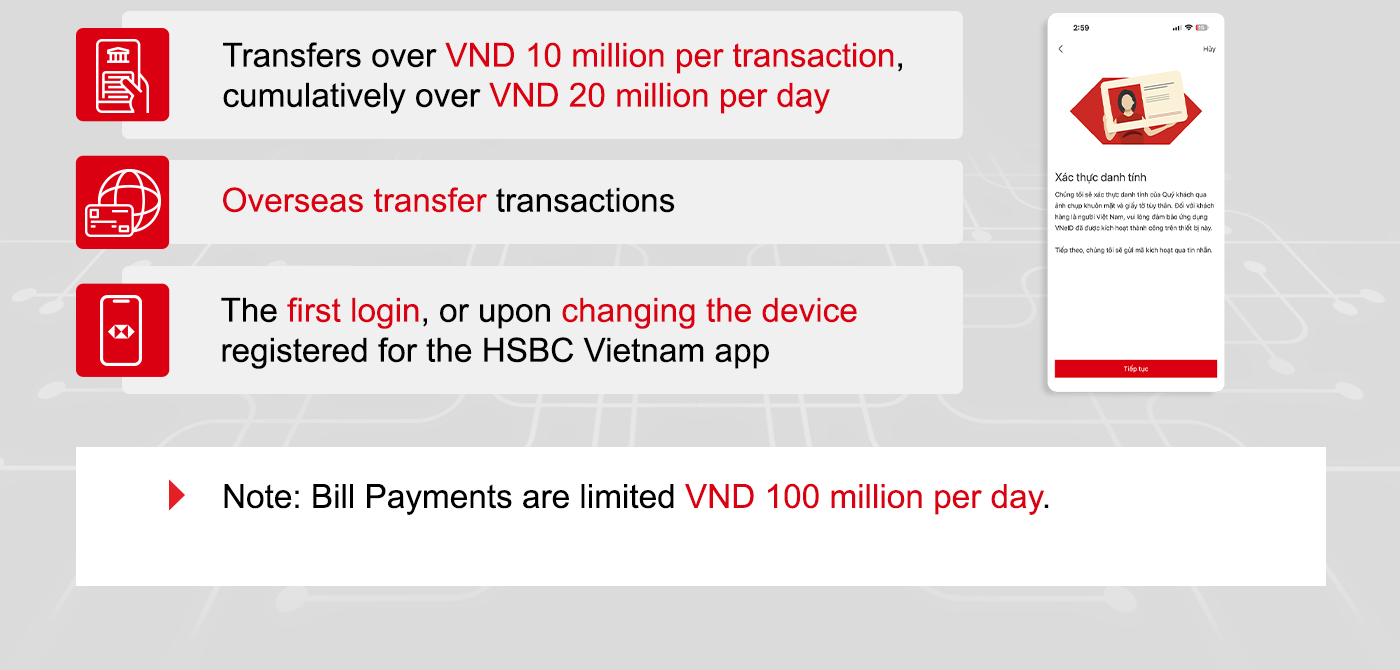
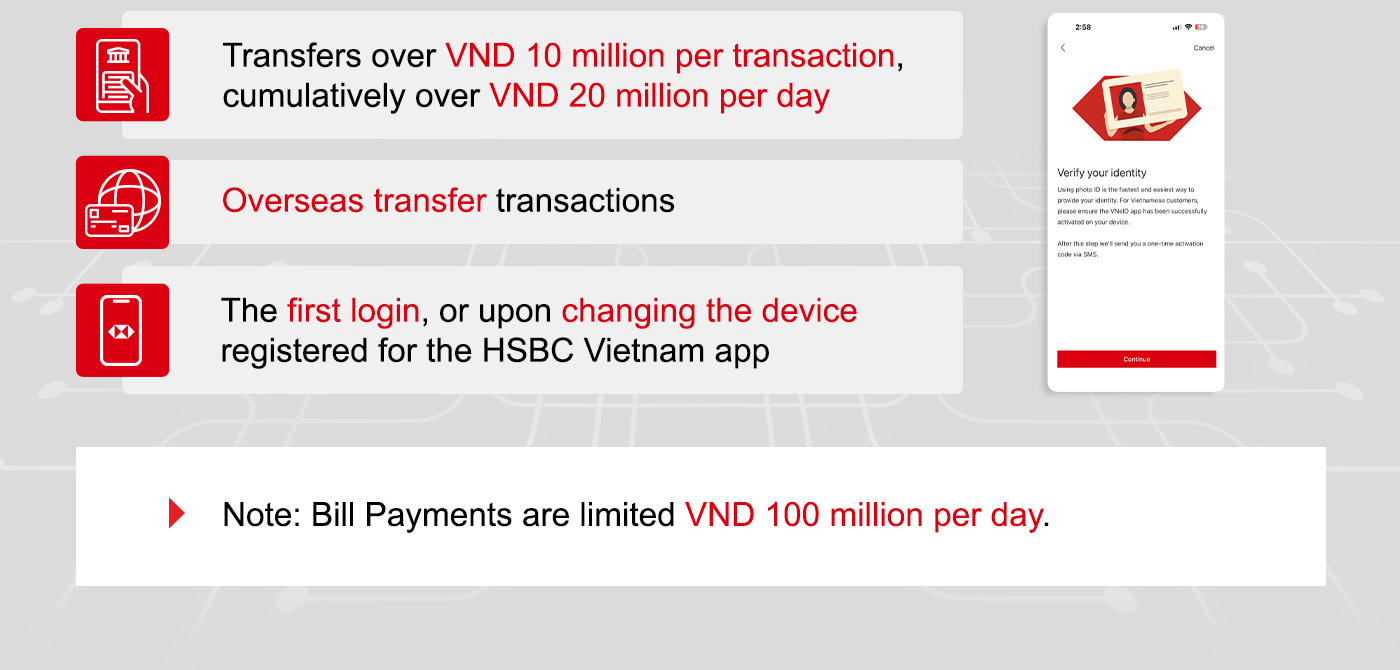
fix

diff --git a/source/index_vn.html b/source/index_vn.html
@@ -154,7 +154,7 @@
                           <tr>
                             <td height="75" valign="top" style="margin: 0; padding: 0; border: none; font-family: Arial, Helvetica, sans-serif !important; font-size: 16px; line-height: 1.3; color: #FFFFFF;"><table width="100%" border="0" cellpadding="0" cellspacing="0" class="chs_body">
                                 <tr>
-                                  <td width="160" valign="top" style="margin: 0; padding: 0; border: none; font-family: Arial, Helvetica, sans-serif !important; font-size: 12px; line-height: 1.3; color: #FFFFFF;">Chọn biểu tượng Thông tin tài khoản ở trên cùng bên phải màn hình Tài khoản.</td>
+                                  <td width="160" valign="top" style="margin: 0; padding: 0; border: none; font-family: Arial, Helvetica, sans-serif !important; font-size: 12px; line-height: 1.3; color: #FFFFFF;">Chọn biểu tượng <strong>Thông tin tài khoản</strong> ở trên cùng bên góc phải màn hình.</td>
                                   <td width="28" style="margin: 0; padding: 0; border: none; font-family: Arial, Helvetica, sans-serif !important; font-size: 16px; line-height: 1.3; color: #FFFFFF;"><img src="image/chs_img_square.png" width="28" height="auto" alt="" style="display:block"/></td>
                                   <td width="160" valign="top" style="margin: 0; padding: 0; border: none; font-family: Arial, Helvetica, sans-serif !important; font-size: 12px; line-height: 1.3; color: #FFFFFF;">Chọn Bảo mật, sau đó chọn Quản lý thiết bị</td>
                                   <td width="32" style="margin: 0; padding: 0; border: none; font-family: Arial, Helvetica, sans-serif !important; font-size: 16px; line-height: 1.3; color: #FFFFFF;"><img src="image/chs_img_square.png" width="32" height="auto" alt="" style="display:block"/></td>
@@ -164,7 +164,7 @@
                               </table></td>
                           </tr>
                           <tr>
-                            <td style="margin: 0; padding: 0; border: none; font-family: Arial, Helvetica, sans-serif !important; font-size: 16px; line-height: 1.3; color: #FFFFFF;">Thiết lập đăng nhập lại Ứng dụng HSBC, Quý khách sẽ được yêu cầu đăng ký thông tin sinh trắc học sau bước nhập Tên đăng nhập</td>
+                            <td style="margin: 0; padding: 0; border: none; font-family: Arial, Helvetica, sans-serif !important; font-size: 16px; line-height: 1.3; color: #FFFFFF;">Thiết lập đăng nhập lại Ứng dụng HSBC, Quý Khách sẽ được yêu cầu đăng ký thông tin sinh trắc học sau bước nhập Tên đăng nhập</td>
                           </tr>
                         </table></td>
                     </tr>
@@ -210,10 +210,10 @@
                 <td width="40" style="margin: 0; padding: 0; border: none; font-family: Arial, Helvetica, sans-serif !important; font-size: 16px; line-height: 1.3; color: #000000;"><img src="image/chs_img_square.png" width="40" height="auto" alt="" style="display:block"/></td>
                 <td style="margin: 0; padding: 0; border: none; font-family: Arial, Helvetica, sans-serif !important; font-size: 16px; line-height: 1.3; color: #000000;"><table width="100%" border="0" cellpadding="0" cellspacing="0" class="chs_body">
                     <tr>
-                      <td style="margin: 0; padding: 0; border: none; font-family: Arial, Helvetica, sans-serif !important; font-size: 24px; line-height: 1.3; color: #FFFFFF;"><strong>Chuyển khoản quốc tế trên Ứng dụng HSBC Việt Nam</strong></td>
+                      <td style="margin: 0; padding: 0; border: none; font-family: Arial, Helvetica, sans-serif !important; font-size: 24px; line-height: 1.2; color: #FFFFFF;"><strong>Chuyển khoản nước ngoài trên Ứng dụng HSBC Việt Nam</strong></td>
                     </tr>
                     <tr>
-                      <td style="margin: 0; padding: 15px 0 0 0; border: none; font-family: Arial, Helvetica, sans-serif !important; font-size: 16px; line-height: 1.2; color: #FFFFFF;">Giờ đây, bạn có thể thực hiện chuyển khoản quốc tế trực tiếp trên ứng dụng HSBC Việt Nam mọi lúc, mọi nơi - đơn giản, an toàn và tuân thủ quy định của Ngân hàng Nhà nước.</td>
+                      <td style="margin: 0; padding: 15px 0 0 0; border: none; font-family: Arial, Helvetica, sans-serif !important; font-size: 16px; line-height: 1.2; color: #FFFFFF;">Giờ đây, bạn có thể thực hiện chuyển khoản nước ngoài trực tiếp trên ứng dụng HSBC Việt Nam mọi lúc, mọi nơi - đơn giản, an toàn.</td>
                     </tr>
                   </table></td>
                 <td width="325" style="margin: 0; padding: 0; border: none; font-family: Arial, Helvetica, sans-serif !important; font-size: 16px; line-height: 1.3; color: #000000;"><img src="image/chs_box_6_vn.jpg" width="325" height="auto" alt="" style="display:block"/></td>
@@ -239,7 +239,7 @@
                     </tr>
                     <tr>
                       <td style="margin: 0; padding: 0; border: none; font-family: Arial, Helvetica, sans-serif !important; font-size: 16px; line-height: 1.3; color: #000000;">&nbsp;</td>
-                      <td style="margin: 0; padding: 15px 0; border: none; font-family: Arial, Helvetica, sans-serif !important; font-size: 16px; line-height: 1.3; color: #000000;">Nhằm tăng cường bảo mật giao dịch khi thực hiện qua kênh số, Quý khách vui lòng lưu ý những điểm sau khi thực hiện chuyển khoản qua Ngân hàng Trực tuyến:</td>
+                      <td style="margin: 0; padding: 15px 0; border: none; font-family: Arial, Helvetica, sans-serif !important; font-size: 16px; line-height: 1.3; color: #000000;">Nhằm tăng cường bảo mật giao dịch khi thực hiện qua kênh số, Quý Khách vui lòng lưu ý những điểm sau khi thực hiện chuyển khoản qua Ngân hàng Trực tuyến:</td>
                       <td style="margin: 0; padding: 0; border: none; font-family: Arial, Helvetica, sans-serif !important; font-size: 16px; line-height: 1.3; color: #000000;">&nbsp;</td>
                     </tr>
                   </table></td>
@@ -253,9 +253,9 @@
           <td style="margin: 0; padding: 0; border: none; font-family: Arial, Helvetica, sans-serif !important; font-size: 16px; line-height: 1.3; color: #000000;"><img src="image/chs_img_square.png" width="40" height="auto" alt="" style="display:block"/></td>
         </tr>
         <tr>
-          <td bgcolor="#e9e9e9" style="margin: 0; padding: 20px 40px; border: none; font-family: Arial, Helvetica, sans-serif !important; font-size: 16px; line-height: 1.2; color: #000000;">Chúng tôi luôn sẵn sàng hỗ trợ Quý khách trong suốt quá trình chuyển đổi này. Để được hỗ trợ hoặc biết thêm thông tin, vui lòng liên hệ với chúng tôi qua Trung Tâm Dịch Vụ Khách Hàng hoặc các chi nhánh/ phòng giao dịch gần nhất.<br />
+          <td bgcolor="#e9e9e9" style="margin: 0; padding: 20px 40px; border: none; font-family: Arial, Helvetica, sans-serif !important; font-size: 16px; line-height: 1.2; color: #000000;">Chúng tôi luôn sẵn sàng hỗ trợ Quý khách để việc cập nhật đơn giản và dễ dàng nhất có thể trong suốt quá trình chuyển đổi này. Mọi thông tin và thắc mắc liên quan, Quý Khách vui lòng liên hệ Trung Tâm Dịch Vụ Khách Hàng hoặc các Chi nhánh/phòng giao dịch gần nhất để được hỗ trợ.<br />
             <br />
-            Cảm ơn Quý khách đã lựa chọn sử dụng dịch vụ của chúng tôi.</td>
+            Cảm ơn Quý Khách đã tin chọn sử dụng dịch vụ của HSBC.</td>
         </tr>
         <tr>
           <td style="margin: 0; padding: 0; border: none; font-family: Arial, Helvetica, sans-serif !important; font-size: 16px; line-height: 1.3; color: #000000;"><img src="image/chs_img_square.png" width="40" height="auto" alt="" style="display:block"/></td>

diff --git a/source/index_en.html b/source/index_en.html
@@ -89,7 +89,7 @@
                     </tr>
                     <tr>
                       <td style="margin: 0; padding: 0; border: none; font-family: Arial, Helvetica, sans-serif !important; font-size: 16px; line-height: 1.3; color: #000000;">&nbsp;</td>
-                      <td style="margin: 0; padding: 0; border: none; font-family: Arial, Helvetica, sans-serif !important; font-size: 24px; line-height: 1.2; color: #FFFFFF;"><strong>Ensure your passport is ready for verification</strong></td>
+                      <td style="margin: 0; padding: 0 0 5px 0; border: none; font-family: Arial, Helvetica, sans-serif !important; font-size: 24px; line-height: 1.2; color: #FFFFFF;"><strong>Ensure your passport is ready for verification</strong></td>
                       <td style="margin: 0; padding: 0; border: none; font-family: Arial, Helvetica, sans-serif !important; font-size: 16px; line-height: 1.3; color: #000000;">&nbsp;</td>
                     </tr>
                   </table></td>
@@ -103,7 +103,7 @@
                             <td style="margin: 0; padding: 0; border: none; font-family: Arial, Helvetica, sans-serif !important; font-size: 1px; line-height: 1.0; color: #000000;">&nbsp;</td>
                           </tr>
                           <tr>
-                            <td bgcolor="#f1f1f1" style="margin: 0; padding: 0; border: none; font-family: Arial, Helvetica, sans-serif !important; font-size: 16px; line-height: 1.3; color: #000000;"><img src="image/chs_img_square.png" width="40" height="164" alt="" style="display:block"/></td>
+                            <td bgcolor="#f1f1f1" style="margin: 0; padding: 0; border: none; font-family: Arial, Helvetica, sans-serif !important; font-size: 16px; line-height: 1.3; color: #000000;"><img src="image/chs_img_square.png" width="40" height="165" alt="" style="display:block"/></td>
                             <td bgcolor="#f1f1f1" style="margin: 0; padding: 0; border: none; font-family: Arial, Helvetica, sans-serif !important; font-size: 16px; line-height: 1.3; color: #000000;"><table width="100%" border="0" cellpadding="0" cellspacing="0" class="chs_body">
                                 <tr>
                                   <td style="margin: 0; padding: 0; border: none; font-family: Arial, Helvetica, sans-serif !important; font-size: 16px; line-height: 1.2; color: #000000;">Please have your valid passport ready to avoid any service interruption.</td>
@@ -135,7 +135,7 @@
                   </table></td>
               </tr>
               <tr>
-                <td style="margin: 0; padding: 0; border: none; font-family: Arial, Helvetica, sans-serif !important; font-size: 16px; line-height: 1.3; color: #000000;"><img src="image/chs_box_3_vn.jpg" width="700" height="auto" alt="" style="display:block"/></td>
+                <td style="margin: 0; padding: 0; border: none; font-family: Arial, Helvetica, sans-serif !important; font-size: 16px; line-height: 1.3; color: #000000;"><img src="image/chs_box_3_en.jpg" width="700" height="auto" alt="" style="display:block"/></td>
               </tr>
               <tr>
                 <td align="center" style="margin: 0; padding: 0; border: none; font-family: Arial, Helvetica, sans-serif !important; font-size: 16px; line-height: 1.3; color: #000000;"><table width="100%" border="0" cellpadding="0" cellspacing="0" class="chs_body">
@@ -207,7 +207,7 @@
                       <td style="margin: 0; padding: 15px 0 0 0; border: none; font-family: Arial, Helvetica, sans-serif !important; font-size: 16px; line-height: 1.2; color: #FFFFFF;">You can now make overseas transfers directly on the HSBC Vietnam App, anytime and anywhere - simple, secure.</td>
                     </tr>
                   </table></td>
-                <td width="325" style="margin: 0; padding: 0; border: none; font-family: Arial, Helvetica, sans-serif !important; font-size: 16px; line-height: 1.3; color: #000000;"><img src="image/chs_box_6_vn.jpg" width="325" height="auto" alt="" style="display:block"/></td>
+                <td width="325" style="margin: 0; padding: 0; border: none; font-family: Arial, Helvetica, sans-serif !important; font-size: 16px; line-height: 1.3; color: #000000;"><img src="image/chs_box_6_en.jpg" width="325" height="auto" alt="" style="display:block"/></td>
               </tr>
             </table></td>
         </tr>
